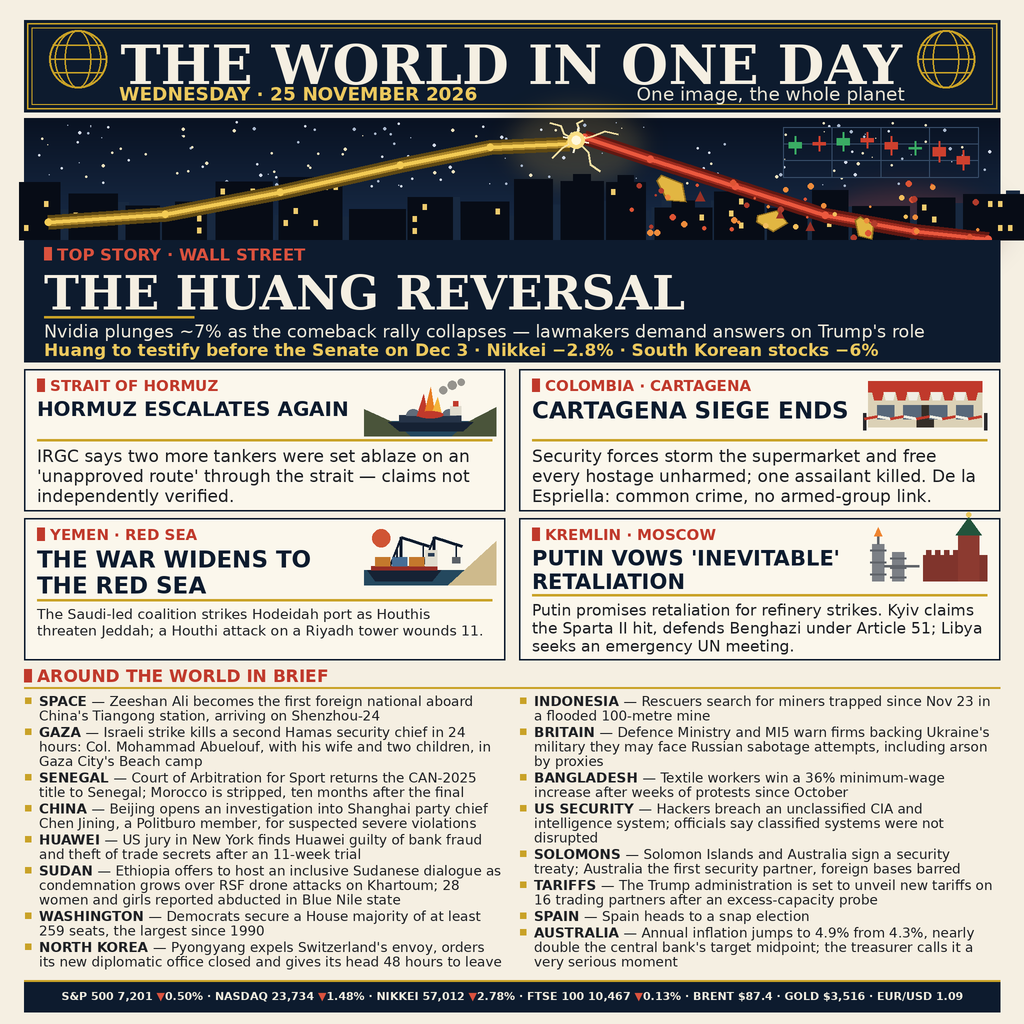
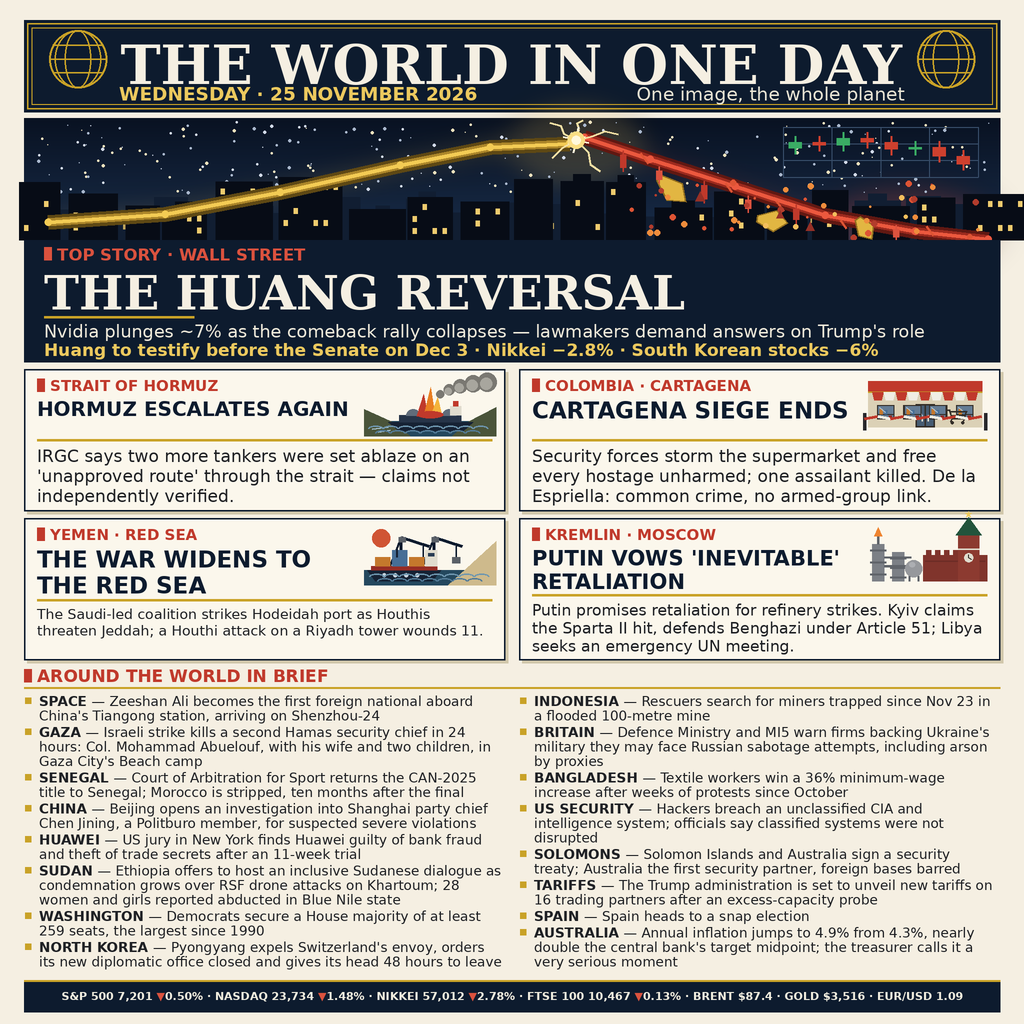
Defense strengthening: richer hero skyline and rally glow, redrawn spot illustrations, panel depth — texts unchanged

diff --git a/gen.py b/gen.py
@@ -127,7 +127,8 @@ def masthead(d):
 
 
 # ---------------------------------------------------------------- hero scene
-def skyline(d, rng, baseline, color, hmin, hmax, windows=None):
+def skyline(d, rng, baseline, color, hmin, hmax, windows=None,
+            win_p=0.13, win_col=(238, 203, 110)):
     x = MX - 10
     while x < W - MX + 10:
         bw = rng.randint(58, 128)
@@ -141,9 +142,9 @@ def skyline(d, rng, baseline, color, hmin, hmax, windows=None):
             while wy < baseline - 16:
                 wx = x + 10
                 while wx < x + bw - 12:
-                    if rng.random() < 0.13:
+                    if rng.random() < win_p:
                         d.rectangle([wx, wy, wx + 8, wy + 11],
-                                    fill=(238, 203, 110))
+                                    fill=win_col)
                     wx += 20
                 wy += 24
         x += bw + rng.randint(4, 18)
@@ -227,6 +228,13 @@ def fracture(d, peak):
     d.ellipse([px_ - 9, py_ - 9, px_ + 9, py_ + 9], fill=bright)
 
 
+def candle_shard(d, cx, cy, hgt, col):
+    """One small candlestick tumbling under the break point."""
+    d.line([cx, cy - hgt // 2 - 8, cx, cy + hgt // 2 + 8], fill=col,
+           width=3)
+    d.rectangle([cx - 6, cy - hgt // 2, cx + 6, cy + hgt // 2], fill=col)
+
+
 def hero_scene(d, img):
     top, bot = 236, 480
     # night-sky gradient
@@ -236,9 +244,17 @@ def hero_scene(d, img):
         col = tuple(int(c_top[k] + (c_bot[k] - c_top[k]) * t)
                     for k in range(3))
         d.line([MX, top + i, W - MX, top + i], fill=col)
-    # soft glows (gold at the peak, red where the line crashes)
+    # the chart line's path (the glow below is laid along it)
+    rise = [(96, 444), (330, 428), (560, 384), (800, 330), (980, 294),
+            (1138, 287)]
+    fall = [(1168, 274), (1300, 318), (1470, 372), (1650, 430),
+            (1830, 462), (1976, 478)]
+    # soft glows: a halo running the length of the gold rally line and
+    # of the red plunge, plus pools of light at the peak and the crash
     glow = Image.new("RGBA", (W, W), (0, 0, 0, 0))
     gd = ImageDraw.Draw(glow)
+    gd.line(rise, fill=(240, 190, 80, 46), width=54, joint="curve")
+    gd.line(fall, fill=(205, 62, 40, 42), width=48, joint="curve")
     gd.ellipse([1002, 196, 1302, 386], fill=(240, 190, 80, 46))
     gd.ellipse([1620, 360, 2006, 540], fill=(205, 62, 40, 58))
     glow = glow.filter(ImageFilter.GaussianBlur(26))
@@ -246,24 +262,22 @@ def hero_scene(d, img):
     d = ImageDraw.Draw(img)  # fresh draw core after compositing
     # stars
     rng = random.Random(20261125)
-    for _ in range(150):
+    for _ in range(240):
         sx = rng.randint(MX + 8, W - MX - 8)
-        sy = rng.randint(top + 8, top + 140)
+        sy = rng.randint(top + 8, top + 150)
         r = rng.choice((1, 2, 2, 3))
         shade = rng.choice(((210, 218, 232), (238, 226, 190),
                             (170, 184, 205)))
         d.ellipse([sx - r, sy - r, sx + r, sy + r], fill=shade)
-    # skyline, two layers
-    skyline(d, random.Random(41), bot, (24, 41, 64), 40, 88)
+    # skyline, two layers: a dim distant row with sparse lit windows,
+    # then the near-black row with brighter windows in front of it
+    skyline(d, random.Random(41), bot, (17, 30, 50), 40, 88,
+            windows=True, win_p=0.07, win_col=(190, 164, 92))
     skyline(d, random.Random(97), bot, (7, 12, 22), 62, 126,
-            windows=True)
+            windows=True, win_p=0.17)
     candlesticks(d)
     # the chart line: gold rocket, red plunge — the two ends stop short
     # of the peak, leaving a visible gap for the fracture
-    rise = [(96, 444), (330, 428), (560, 384), (800, 330), (980, 294),
-            (1138, 287)]
-    fall = [(1168, 274), (1300, 318), (1470, 372), (1650, 430),
-            (1830, 462), (1976, 478)]
     for pts, halo, mid, core in (
             (rise, (94, 72, 20), (172, 134, 42), (243, 203, 84)),
             (fall, (96, 24, 18), (156, 42, 30), (235, 88, 62))):
@@ -277,6 +291,16 @@ def hero_scene(d, img):
     arrow_shard(d, 1345, 380, 74, 42, 16)
     arrow_shard(d, 1545, 442, 64, 8, 15)
     arrow_shard(d, 1730, 458, 52, 55, 13)
+    # red candle shards and falling ticks shaken loose by the break,
+    # tumbling away beneath the plunge path
+    for cx, cy, hgt, col in ((1246, 322, 26, RED), (1318, 350, 18, RED_L),
+                             (1408, 384, 28, RED), (1496, 408, 18, RED_L),
+                             (1592, 428, 22, RED), (1792, 466, 16, RED_L)):
+        candle_shard(d, cx, cy, hgt, col)
+    for tx, ty, ln in ((1280, 306, 16), (1450, 366, 13), (1552, 402, 15),
+                       (1680, 440, 12), (1852, 452, 14)):
+        d.line([tx, ty, tx + ln, ty + ln + 5], fill=(222, 84, 52),
+               width=4)
     # embers and falling fragments under the plunge
     rng = random.Random(7)
     for _ in range(46):
@@ -320,6 +344,15 @@ def hero_strip(d):
 
 
 # ---------------------------------------------------------------- motifs
+def waves(d, x, y, w, col, step=30, amp=6):
+    """A row of scalloped wave crests."""
+    n = max(int(w // step), 1)
+    for i in range(n):
+        wx = x + i * step
+        d.arc([wx, y - amp, wx + step, y + amp], 180, 360, fill=col,
+              width=3)
+
+
 def motif_hormuz(d, x, y, w, h):
     sea_y = y + h - 30
     d.rectangle([x, sea_y, x + w, y + h], fill=SEA)
@@ -339,35 +372,81 @@ def motif_hormuz(d, x, y, w, h):
     d.rectangle([cx + 40, sea_y - 30, cx + 62, sea_y - 12],
                 fill=(224, 220, 206))
     d.rectangle([cx + 46, sea_y - 40, cx + 56, sea_y - 30], fill=RED)
-    # flame tongues rising off the midship, smoke trailing up-right
+    # flame tongues rising off the midship
     for dx, fh, col in ((-16, 44, RED), (-2, 58, (232, 126, 34)),
                         (12, 38, (244, 180, 60))):
         bx = cx + dx
         d.polygon([(bx - 11, sea_y - 10), (bx + 3, sea_y - 10 - fh),
                    (bx + 12, sea_y - 10)], fill=col)
     d.ellipse([cx - 26, sea_y - 20, cx + 26, sea_y - 6], fill=RED)
-    for sx, sy, r in ((cx + 26, sea_y - 62, 8), (cx + 44, sea_y - 72, 9),
-                      (cx + 62, sea_y - 78, 7)):
-        d.ellipse([sx - r, sy - r, sx + r, sy + r], fill=(150, 148, 142))
+    # a layered smoke plume boiling up and trailing off to the right:
+    # dark puffs behind, paler cores in front
+    for sx, sy, r in ((cx + 20, sea_y - 54, 8), (cx + 38, sea_y - 63, 11),
+                      (cx + 60, sea_y - 70, 14), (cx + 86, sea_y - 75, 17),
+                      (cx + 114, sea_y - 78, 19)):
+        d.ellipse([sx - r, sy - r, sx + r, sy + r], fill=(122, 120, 114))
+    for sx, sy, r in ((cx + 36, sea_y - 60, 7), (cx + 58, sea_y - 67, 9),
+                      (cx + 84, sea_y - 72, 11), (cx + 112, sea_y - 75, 12)):
+        d.ellipse([sx - r, sy - r, sx + r, sy + r], fill=(168, 166, 158))
+    # wake at the stern and wave crests across the strait
+    d.line([cx - 84, sea_y + 12, cx - 116, sea_y + 16], fill=(168, 196, 208),
+           width=3)
+    d.line([cx - 80, sea_y + 18, cx - 104, sea_y + 22], fill=(168, 196, 208),
+           width=3)
+    waves(d, x + 8, sea_y + 15, w - 16, (110, 150, 175))
+    waves(d, x + 22, sea_y + 24, w - 44, (84, 124, 152))
 
 
 def motif_cartagena(d, x, y, w, h):
     bx, by, bw, bh = x + 18, y + 8, w - 36, h - 26
     d.rectangle([bx, by, bx + bw, by + bh], fill=(219, 209, 182))
     d.rectangle([bx, by, bx + bw, by + 22], fill=RED)
+    d.line([bx, by + 22, bx + bw, by + 22], fill=GOLD, width=3)
     for i in range(9):  # awning stripes
         ax = bx + 8 + i * (bw - 16) // 9
         col = RED if i % 2 == 0 else (240, 238, 228)
         d.polygon([(ax, by + 22), (ax + (bw - 16) // 9, by + 22),
                    (ax + (bw - 16) // 9 - 4, by + 38), (ax + 4, by + 38)],
                   fill=col)
-    d.rectangle([bx + bw // 2 - 17, by + bh - 44, bx + bw // 2 + 17,
-                 by + bh], fill=(52, 46, 40))
+    # double glass entrance doors with a centre mullion and handles
+    dx0, dx1 = bx + bw // 2 - 19, bx + bw // 2 + 19
+    d.rectangle([dx0, by + bh - 46, dx1, by + bh], fill=(70, 92, 114))
+    d.rectangle([dx0, by + bh - 46, dx1, by + bh], outline=(52, 46, 40),
+                width=3)
+    d.line([bx + bw // 2, by + bh - 46, bx + bw // 2, by + bh],
+           fill=(52, 46, 40), width=3)
+    d.line([bx + bw // 2 - 6, by + bh - 24, bx + bw // 2 - 6, by + bh - 12],
+           fill=(224, 220, 206), width=3)
+    d.line([bx + bw // 2 + 6, by + bh - 24, bx + bw // 2 + 6, by + bh - 12],
+           fill=(224, 220, 206), width=3)
+    d.line([dx0 + 4, by + bh - 42, dx0 + 14, by + bh - 20],
+           fill=(150, 172, 192), width=3)
+    # display windows with shelf lines and goods silhouettes inside
     for i in range(3):
-        wx = bx + 18 + i * 52
-        d.rectangle([wx, by + 48, wx + 34, by + 76], fill=(88, 104, 122))
-        wx2 = bx + bw - 52 - i * 52
-        d.rectangle([wx2, by + 48, wx2 + 34, by + 76], fill=(88, 104, 122))
+        for wx in (bx + 18 + i * 52, bx + bw - 52 - i * 52):
+            d.rectangle([wx, by + 48, wx + 34, by + 76], fill=(100, 124, 148))
+            d.rectangle([wx, by + 48, wx + 34, by + 76],
+                        outline=(52, 46, 40), width=2)
+            d.line([wx, by + 66, wx + 34, by + 66], fill=(52, 46, 40),
+                   width=2)
+            d.rectangle([wx + 5, by + 56, wx + 11, by + 66],
+                        fill=(196, 120, 44))
+            d.rectangle([wx + 15, by + 58, wx + 20, by + 66],
+                        fill=(70, 110, 150))
+            d.rectangle([wx + 23, by + 69, wx + 29, by + 75],
+                        fill=(150, 44, 36))
+            d.line([wx + 4, by + 52, wx + 16, by + 62],
+                   fill=(170, 192, 208), width=2)
+    # a shopping cart parked by the door: basket, handle and two wheels
+    kx, ky = bx + bw - 66, by + bh - 26
+    d.line([kx - 6, ky - 8, kx + 2, ky - 8], fill=(52, 46, 40), width=3)
+    d.polygon([(kx, ky - 6), (kx + 36, ky - 6), (kx + 30, ky + 10),
+               (kx + 5, ky + 10)], outline=(52, 46, 40), width=3)
+    d.line([kx + 4, ky + 2, kx + 33, ky + 2], fill=(52, 46, 40), width=2)
+    d.line([kx + 5, ky + 10, kx + 3, ky + 15], fill=(52, 46, 40), width=3)
+    d.line([kx + 30, ky + 10, kx + 28, ky + 15], fill=(52, 46, 40), width=3)
+    for wx in (kx + 6, kx + 27):
+        d.ellipse([wx - 3, ky + 14, wx + 3, ky + 20], fill=(52, 46, 40))
     # police cordon: two posts and a sagging striped tape
     gy = y + h - 12
     for px in (x + 8, x + w - 14):
@@ -391,6 +470,8 @@ def motif_hodeidah(d, x, y, w, h):
         d.line([cxx, y + h - 30, cxx, y + 22], fill=NAVY, width=6)
         d.line([cxx, y + 22, cxx + 56, y + 40], fill=NAVY, width=6)
         d.line([cxx, y + 22, cxx - 26, y + h - 30], fill=NAVY, width=4)
+        d.rectangle([cxx - 5, y + 22, cxx + 9, y + 32],
+                    fill=(90, 96, 104))  # operator cab
         d.line([cxx + 44, y + 36, cxx + 44, y + 62], fill=NAVY, width=3)
         d.rectangle([cxx + 36, y + 62, cxx + 52, y + 74], fill=(90, 96, 104))
     hx = x + 6  # ship at the quay, drawn large and clear of the coast
@@ -398,15 +479,31 @@ def motif_hodeidah(d, x, y, w, h):
     d.polygon([(hx, wl), (hx + 148, wl), (hx + 130, y + h - 8),
                (hx + 16, y + h - 8)], fill=(22, 34, 52))
     d.rectangle([hx + 8, wl - 8, hx + 140, wl], fill=(150, 44, 36))
+    for px in range(4):  # portholes along the hull
+        d.ellipse([hx + 30 + px * 22, wl + 6, hx + 38 + px * 22, wl + 14],
+                  fill=(200, 212, 222))
     for i, col in enumerate(((196, 120, 44), (70, 110, 150),
                              (196, 120, 44))):  # container stacks
         cxx = hx + 16 + i * 34
         d.rectangle([cxx, wl - 26, cxx + 30, wl - 8], fill=col)
+    d.rectangle([hx + 50, wl - 40, hx + 80, wl - 26],
+                fill=(70, 110, 150))  # one box stacked on deck
     d.rectangle([hx + 116, wl - 40, hx + 140, wl - 8],
                 fill=(224, 220, 206))  # bridge tower
     d.rectangle([hx + 122, wl - 34, hx + 134, wl - 28], fill=(40, 60, 84))
     d.line([hx + 60, wl - 26, hx + 60, wl - 44], fill=(22, 34, 52),
            width=4)  # mast
+    waves(d, x + 10, wl + 13, w - 20, (110, 150, 175))
+    waves(d, x + 26, wl + 22, w - 52, (84, 124, 152))
+
+
+def star(d, cx, cy, r, col):
+    pts = []
+    for i in range(10):
+        ang = -math.pi / 2 + i * math.pi / 5
+        rr = r if i % 2 == 0 else r * 0.45
+        pts.append((cx + rr * math.cos(ang), cy + rr * math.sin(ang)))
+    d.polygon(pts, fill=col)
 
 
 def motif_putin(d, x, y, w, h):
@@ -424,6 +521,15 @@ def motif_putin(d, x, y, w, h):
                base - 90)], fill=(238, 132, 48))
     d.line([x + 50, base - 30, x + 120, base - 30], fill=(96, 100, 106),
            width=5)
+    d.line([x + 50, base - 48, x + 104, base - 48], fill=(96, 100, 106),
+           width=4)
+    # a spherical storage tank between the columns and the wall
+    d.ellipse([x + 92, base - 42, x + 126, base - 8], fill=(150, 152, 156))
+    d.ellipse([x + 100, base - 38, x + 112, base - 28], fill=(172, 174, 178))
+    d.line([x + 100, base - 10, x + 100, base], fill=(96, 100, 106),
+           width=4)
+    d.line([x + 118, base - 10, x + 118, base], fill=(96, 100, 106),
+           width=4)
     # Kremlin wall and tower with spire
     wx = x + 128
     d.rectangle([wx, base - 52, x + w - 8, base], fill=(128, 52, 44))
@@ -431,11 +537,21 @@ def motif_putin(d, x, y, w, h):
         mx_ = wx + 6 + i * 18
         d.rectangle([mx_, base - 62, mx_ + 10, base - 52],
                     fill=(128, 52, 44))
+    d.line([wx + 4, base - 40, x + w - 12, base - 40], fill=(110, 44, 38),
+           width=3)
     tx = x + w - 66
     d.rectangle([tx, base - 92, tx + 42, base], fill=(140, 58, 48))
+    d.line([tx, base - 64, tx + 42, base - 64], fill=(224, 220, 206),
+           width=3)
+    d.ellipse([tx + 12, base - 56, tx + 30, base - 38],
+              fill=(224, 220, 206))  # clock face
+    d.line([tx + 21, base - 47, tx + 21, base - 53], fill=(52, 46, 40),
+           width=2)
+    d.line([tx + 21, base - 47, tx + 26, base - 44], fill=(52, 46, 40),
+           width=2)
     d.polygon([(tx - 5, base - 92), (tx + 47, base - 92), (tx + 21,
                base - 128)], fill=(34, 84, 60))
-    d.ellipse([tx + 16, base - 138, tx + 26, base - 128], fill=GOLD_L)
+    star(d, tx + 21, base - 133, 7, GOLD_L)
 
 
 MOTIFS = (motif_hormuz, motif_cartagena, motif_hodeidah, motif_putin)
@@ -461,6 +577,8 @@ PANELS = (
 
 
 def panel(d, x, y, w, h, kicker, headline, body, motif):
+    d.rectangle([x + 6, y + 6, x + w + 6, y + h + 6],
+                fill=(209, 199, 171))  # soft offset shadow on the paper
     d.rectangle([x, y, x + w, y + h], fill=CREAM)
     d.rectangle([x, y, x + w, y + h], outline=NAVY, width=3)
     px = x + 26
